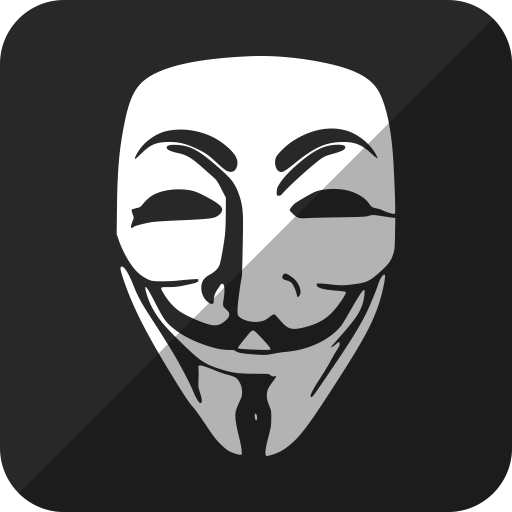
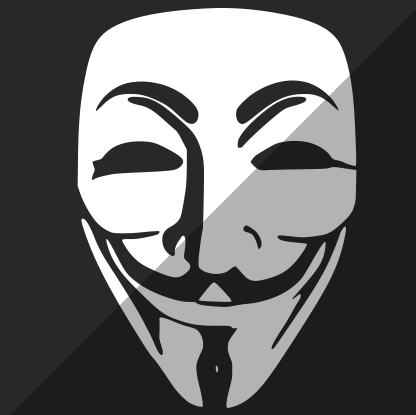
Certificate Field Added

diff --git a/_includes/certificates.html b/_includes/certificates.html
@@ -1,0 +1,17 @@
+<h2>Certification</h2>
+<div class="card-container">
+    {% for item in site.data.certification%}
+    {% if item.page-name %}
+    <a href="{ item.page-name }">
+    {% else %}
+    <a>
+    {% endif %}
+      <div class="card">
+        <div class="info">
+          <p class="title">{{ item.title }}</p>
+          <p class="dates">{{ item.date }}</p>
+        </div>
+      </div>
+    </a>
+    {% endfor %}
+  </div>

diff --git a/_layouts/page.html b/_layouts/page.html
@@ -6,7 +6,7 @@ layout: default
     <div class="container">
         <div class="logo">
             <a href="{{ site.url }}">
-                <img src="{{ site.url }}/assets/img/logo.svg"/>
+                <img src="{{ site.url }}/assets/img/anonymous.png"/>
             </a>
         </div>
         <div class="title">

diff --git a/_includes/projects.html b/_includes/projects.html
@@ -9,11 +9,9 @@
       <div class="card">
         <div class="info">
           <p class="title">{{ item.title }}</p>
-          <p class="location">{{ item.event }}</p>
           <p class="dates">{{ item.date }}</p>
         </div>
       </div>
     </a>
     {% endfor %}
   </div>
-  
